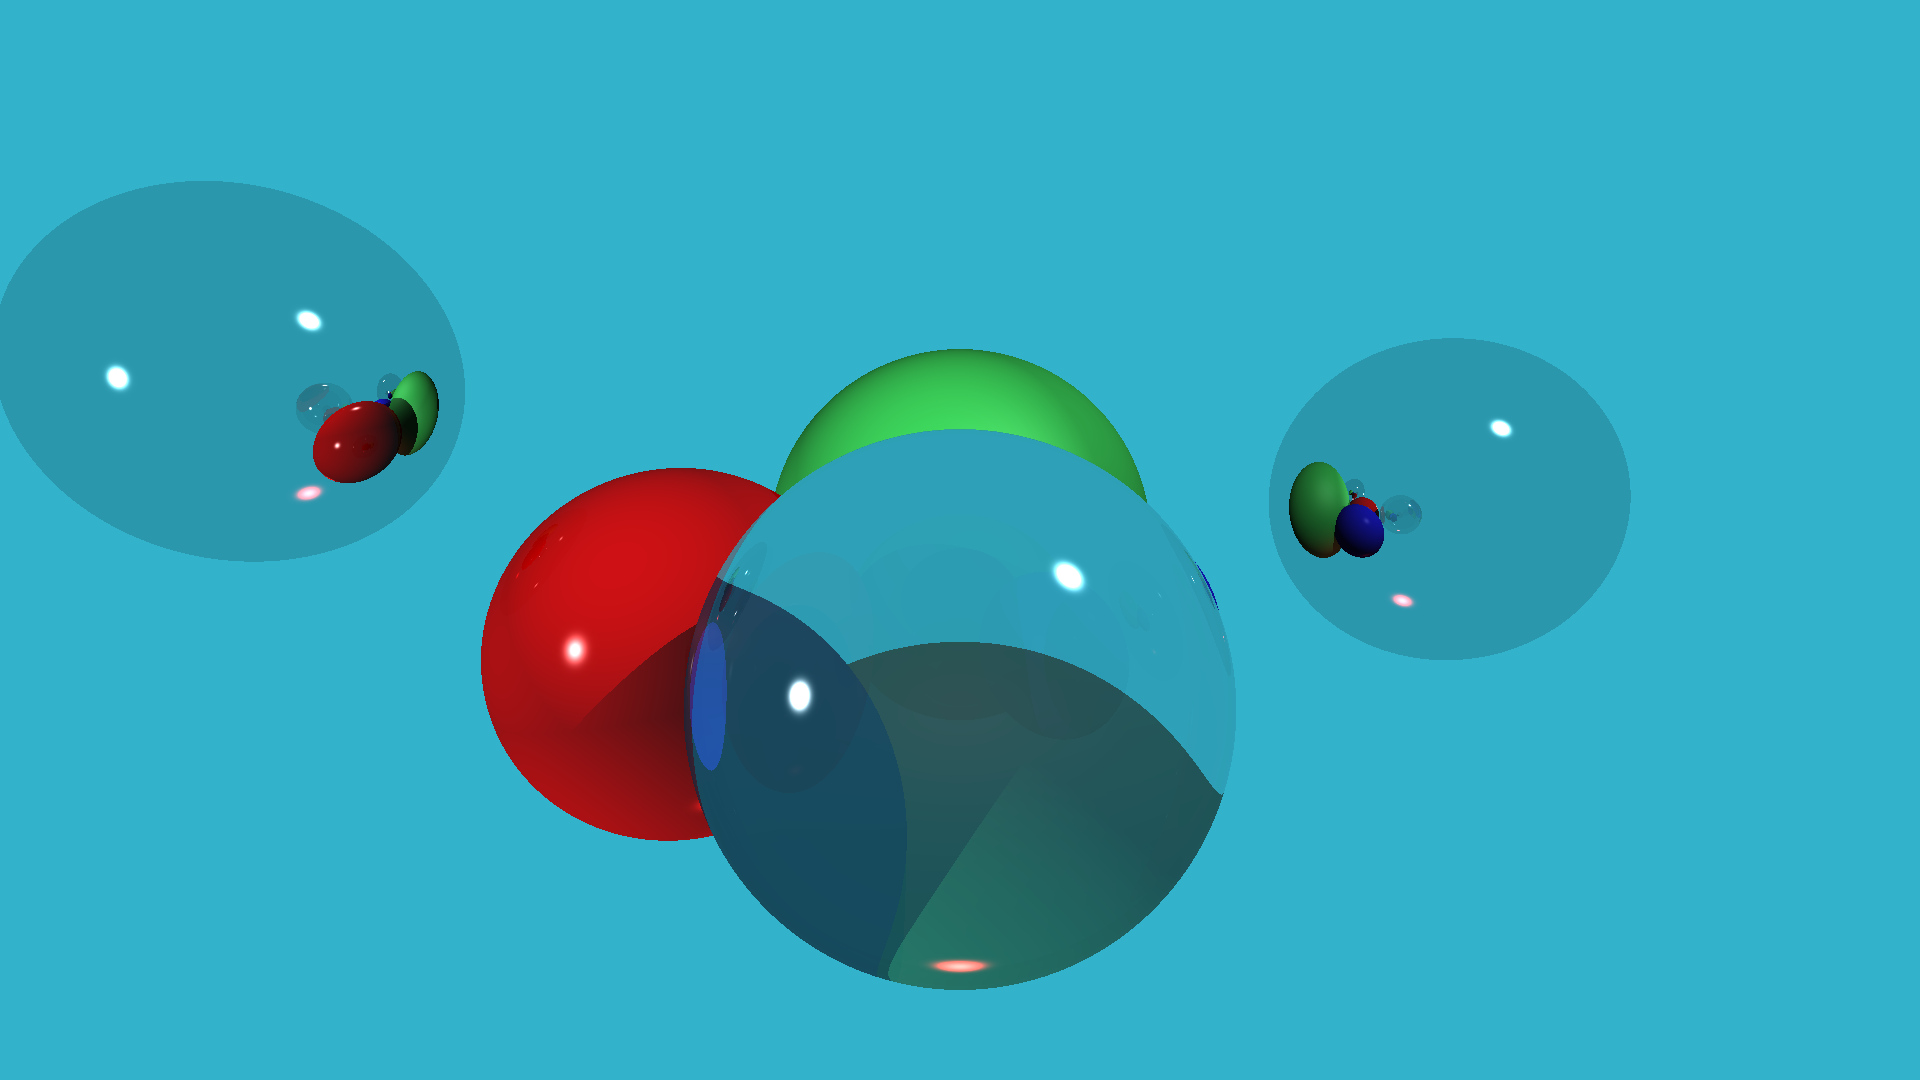
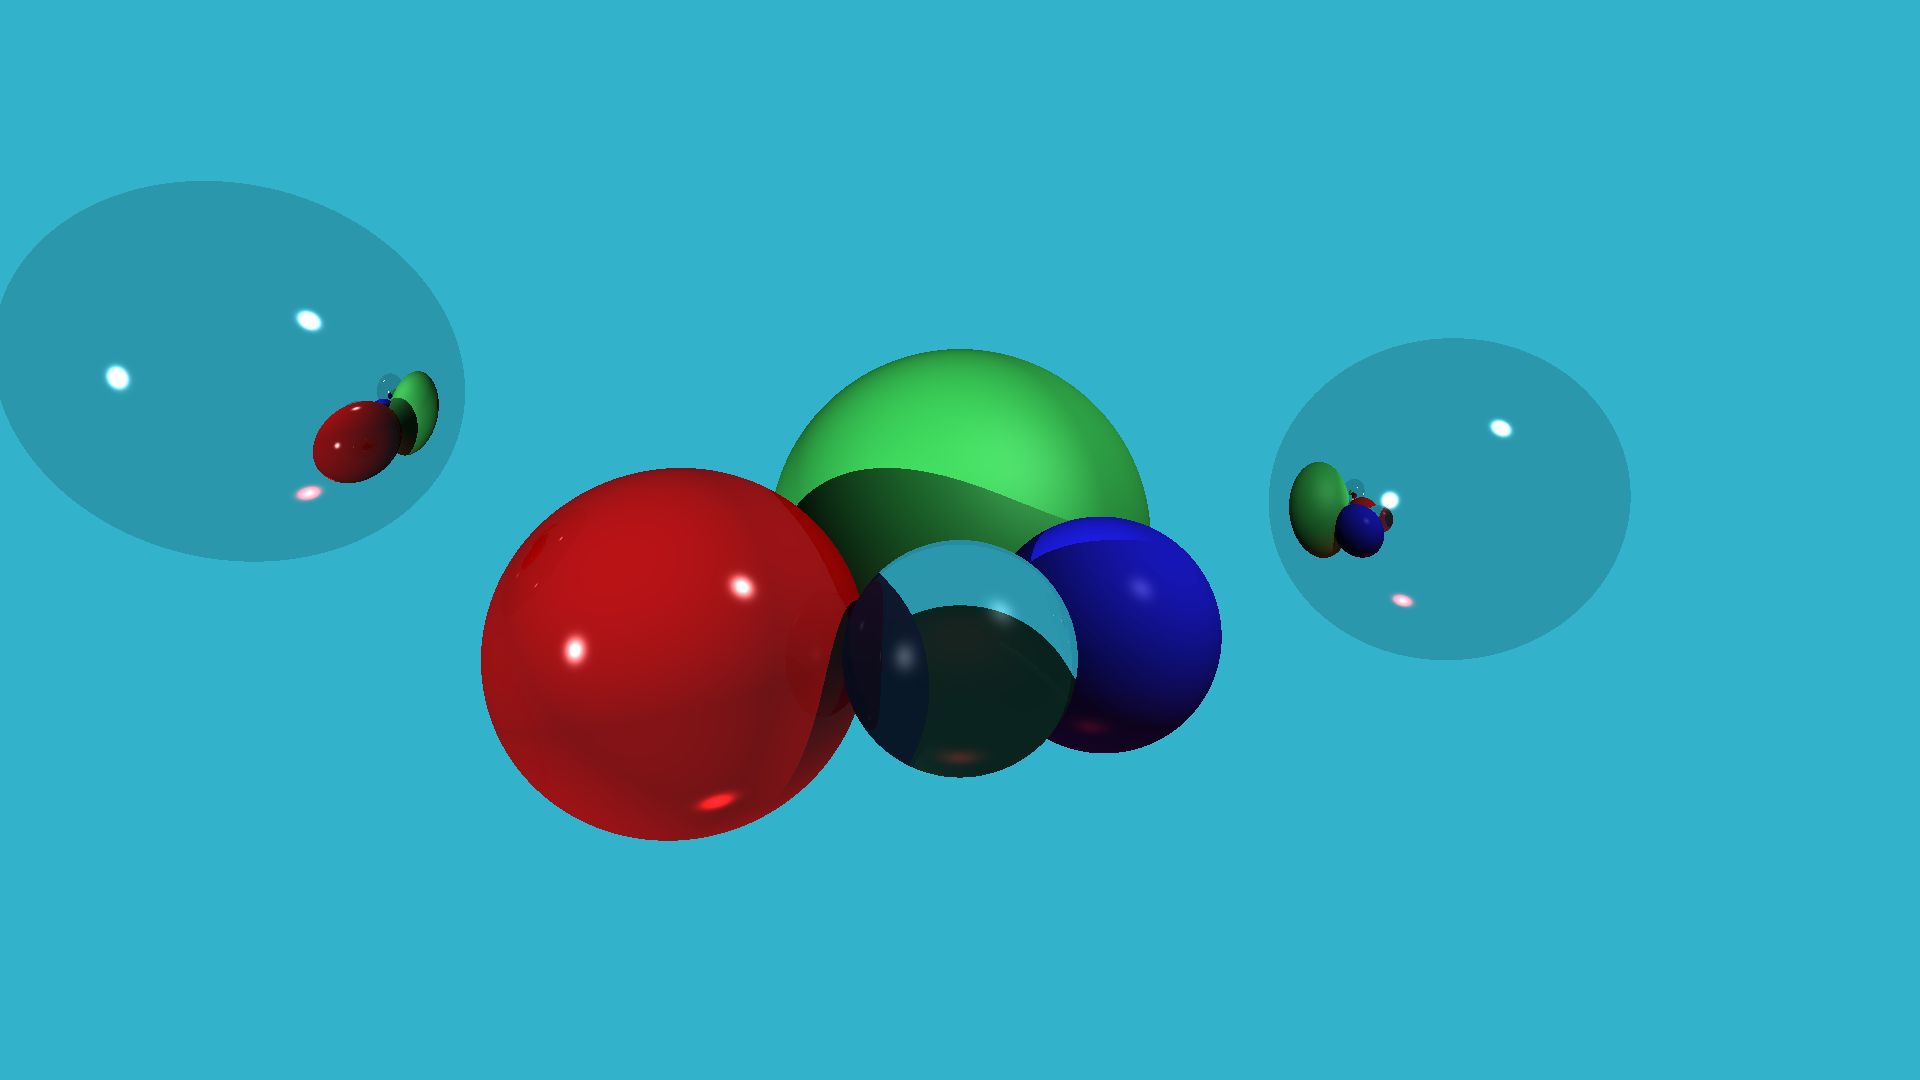
small fixes

Changed region(s): [[0.3125, 0.3972, 0.6562, 0.9167], [0.1562, 0.3361, 0.1875, 0.3972], [0.7188, 0.4583, 0.75, 0.4889]]

diff --git a/SceneManager.cpp b/SceneManager.cpp
@@ -14,12 +14,12 @@ SceneManager::SceneManager(unsigned int width, unsigned int height) : width(widt
 
 void initObjects1(std::vector<Primitive>& objects) {
 
-    Material red_surface(Vector3f(0.8f, 0.0f, 0.0f), 1.0f, 200.0f, 1.5f, true, 0.1f, false, 0.0f, 0.0f);
+    Material red_surface(Vector3f(0.8f, 0.0f, 0.0f), 1.0f, 200.0f, 1.5f, true, 0.1f, true, 0.1f, 1.5f);
     Material green_surface(Vector3f(0.2f, 0.7f, 0.3f), 1.0f, 5.0f, 0.1f, false, 0.0f, false, 0.0f, 0.0f);
     Material blue_surface(Vector3f(0.1f, 0.1f, 0.8f), 1.0f, 60.0f, 0.2f, false, 0.0f, false, 0.0f, 0.0f);
     Material reflector_surface(Vector3f(0.0f, 0.0f, 0.0f), 0.0f, 500.0f, 5.0f, true, 0.85f, false, 0.0f, 0.0f);
 
-    Material glass_surface(Vector3f(0.0f, 0.0f, 0.0f), 0.0f, 500.0f, 5.0f, true, 0.25f, true, 0.70f, 1.5f);
+    Material glass_surface(Vector3f(0.0f, 0.0f, 0.0f), 0.0f, 50.0f, 0.3f, true, 0.07f, true, 0.85f, 1.5f);
 
     objects.push_back(Primitive(Vector3f(-0.5f, 0.2f, 0.3f), 0.33f, red_surface));
     objects.push_back(Primitive(Vector3f(0.3f, 0.2f, 0.0f), 0.25f, blue_surface));
@@ -28,7 +28,7 @@ void initObjects1(std::vector<Primitive>& objects) {
     objects.push_back(Primitive(Vector3f(1.2f, -0.1f, -0.36f), 0.4f, reflector_surface));
     objects.push_back(Primitive(Vector3f(-1.3f, -0.3f, 0.27f), 0.34f, reflector_surface));
 
-    objects.push_back(Primitive(Vector3f(0.0f, 0.2f, 0.8f), 0.34f, glass_surface));
+    objects.push_back(Primitive(Vector3f(0.0f, 0.2f, 0.4f), 0.2f, glass_surface));
 }
 
 void initCameras1(std::vector<Camera>& cameras) {

diff --git a/RayTracer.hpp b/RayTracer.hpp
@@ -20,6 +20,7 @@ struct RayTracer {
 												const std::vector<Light>& lights);
 
 	static Vector3f getReflectDirection(const Vector3f& to_source, const Vector3f& normal);
+	static Vector3f getRefractDirection(const Vector3f& from_source, const Vector3f& normal, float out_k, float in_k);
 
 	static Vector3f castRay(const Ray& ray,
 							const std::vector<Primitive>& objects,
